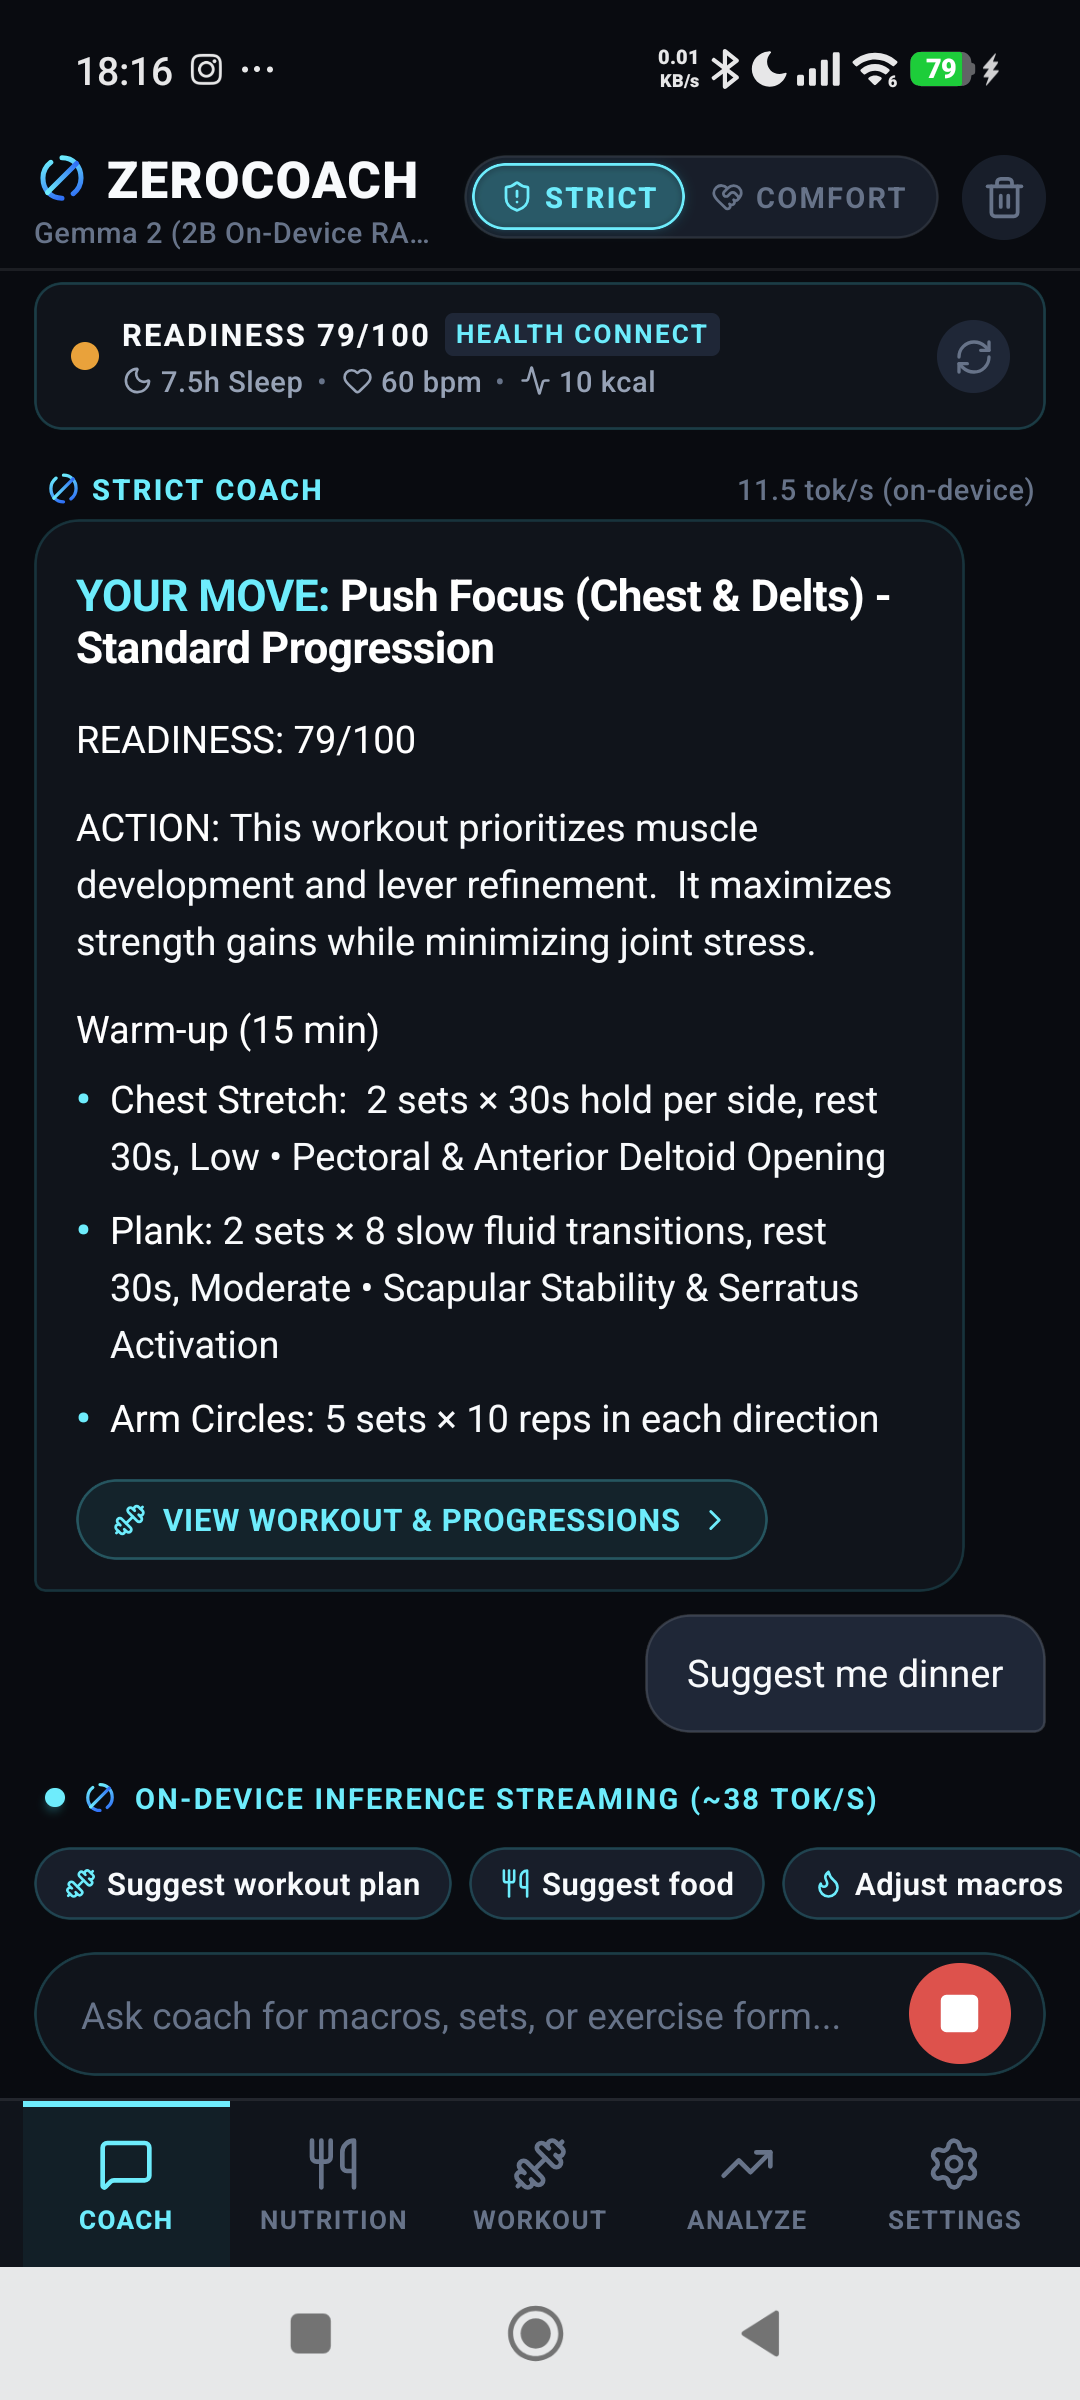
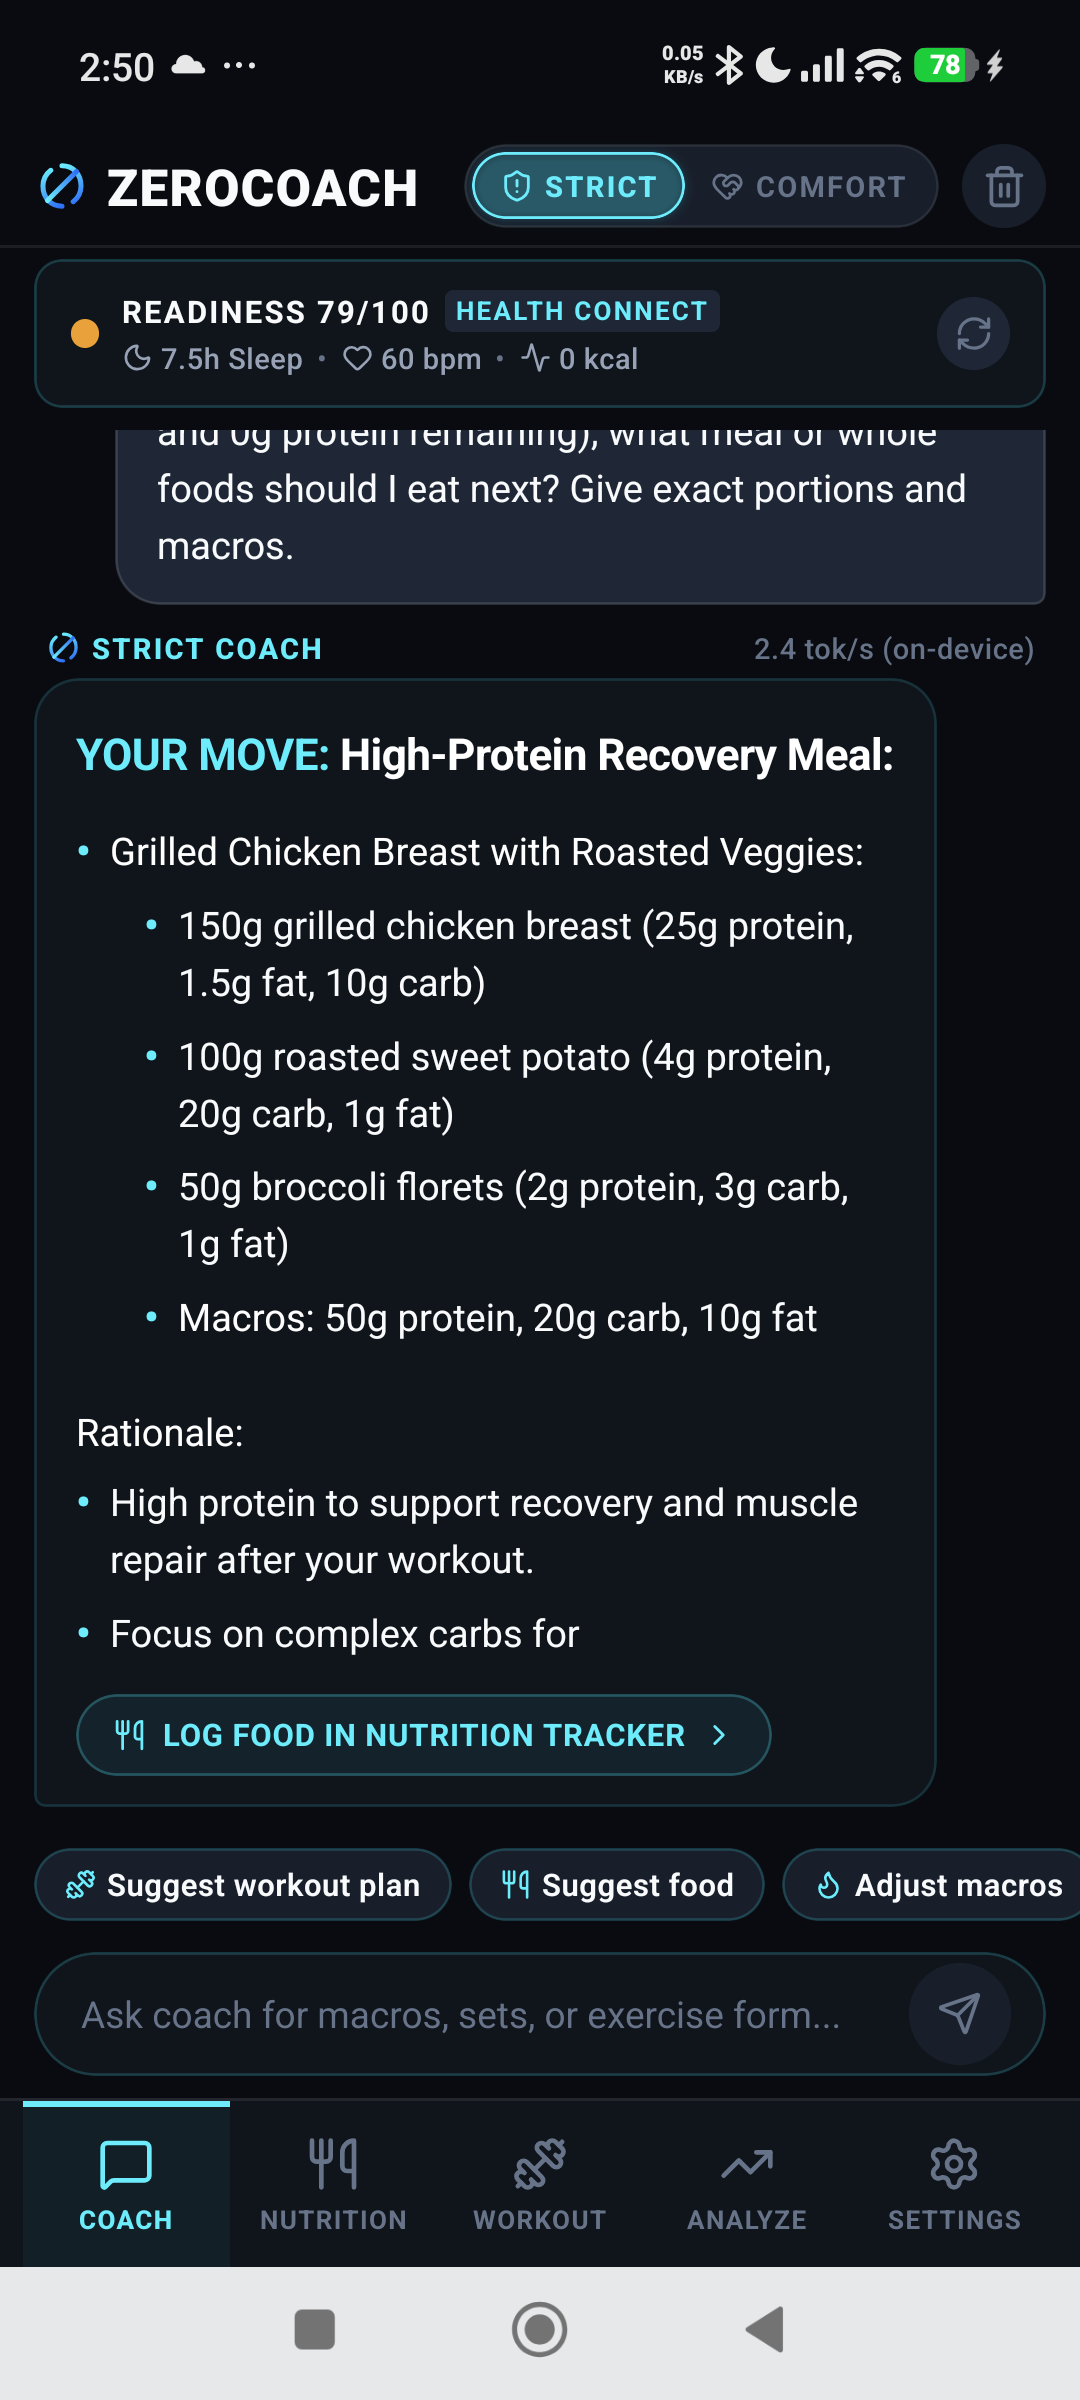
refactor: remove model subtitle and openAIConfig dependency from CoachChatScreen and update screenshots

diff --git a/src/screens/CoachChatScreen.tsx b/src/screens/CoachChatScreen.tsx
@@ -51,7 +51,7 @@ export const CoachChatScreen: React.FC<CoachChatScreenProps> = ({
   } = useChatStore();
 
   const { mode } = useCoachStore();
-  const { provider, openAIConfig, status, downloadProgress } = useModelStore();
+  const { provider, status, downloadProgress } = useModelStore();
   const modeColors = getModeColors(mode);
 
   const handleSend = async (textToSend?: string) => {
@@ -134,19 +134,6 @@ export const CoachChatScreen: React.FC<CoachChatScreenProps> = ({
               <ZeroCoachLogo size={20} mode={mode} />
               <Text style={styles.brandTitle}>ZEROCOACH</Text>
             </View>
-            <Text style={styles.brandSub} numberOfLines={1} ellipsizeMode="tail">
-              {provider === 'openai_compatible'
-                ? `${openAIConfig.modelName || 'LLM'} • OpenAI-Compatible`
-                : Platform.OS === 'web'
-                ? 'On-Device AI (Web Simulator) • Private'
-                : status === 'loaded'
-                ? 'Gemma 2 (2B On-Device RAM) • 100% Private'
-                : status === 'loading'
-                ? 'Loading Gemma 2 into RAM...'
-                : status === 'downloading'
-                ? `Downloading Gemma 2 (${downloadProgress}%)...`
-                : '100% On-Device AI • Private'}
-            </Text>
           </View>
 
           <View style={styles.headerRight}>
@@ -336,11 +323,6 @@ const styles = StyleSheet.create({
     fontWeight: '900',
     letterSpacing: 0.5,
     color: COLORS.textPrimary,
-  },
-  brandSub: {
-    ...TYPOGRAPHY.caption,
-    fontSize: 10,
-    color: COLORS.textMuted,
   },
   headerRight: {
     flexDirection: 'row',
